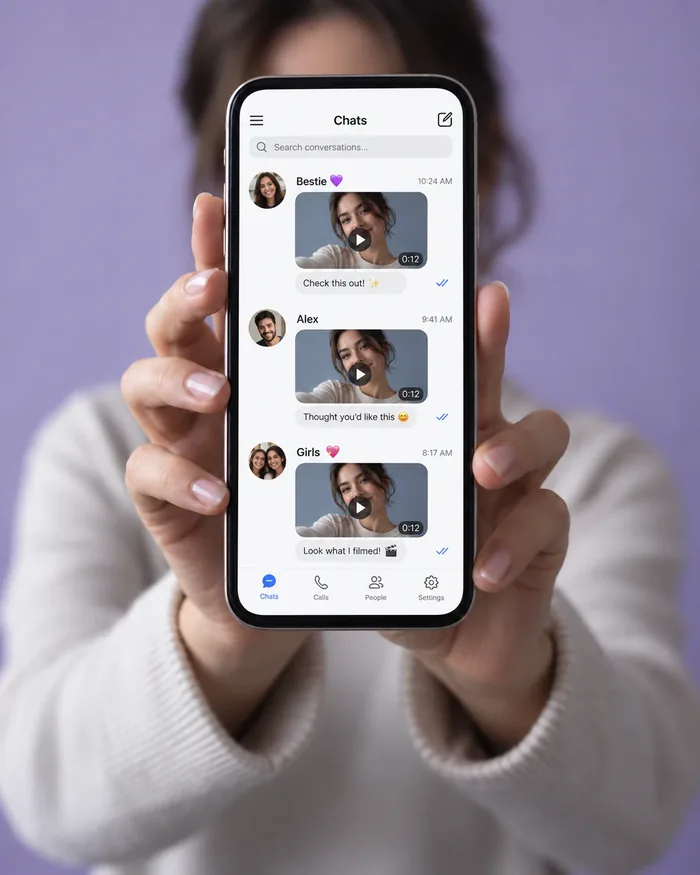
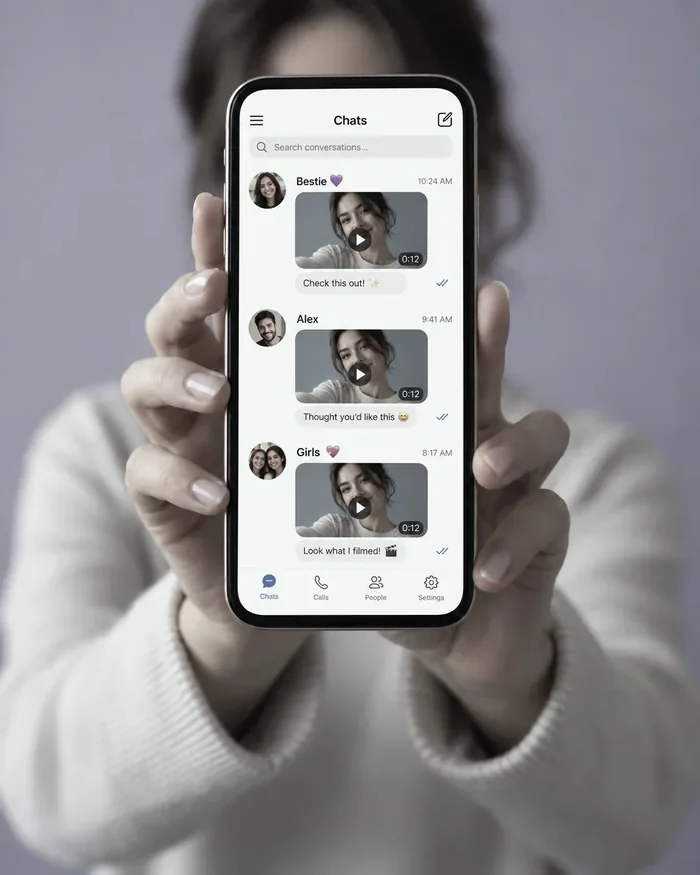
Resultados dos depoimentos mais específicos, fotos da escada recoloridas em degradê e ajustes de conteúdo
- Depoimentos: os 3 resultados agora trazem número/prazo específico
  (fabricado como placeholder, sinalizado com data-confirmar) em vez de
  frase vaga — mais parecido com o que converte numa página de vendas.
- Escada de Exposição: as 7 fotos (mesmo banco de imagem provisório) agora
  seguem o mesmo degradê azul->laranja já usado nos selos de cada nível,
  em vez das cores aleatórias do banco original — mostra a evolução visual
  que a Vitória pediu. A tela do celular em cada foto continua sendo um
  app genérico em inglês (sinalizado no data-confirmar): não temos como
  gerar fotos novas, só recolorir as existentes.
- FAQ: removida a pergunta sobre mostrar gravações para outros alunos.
- Título do herói mais curto e direto (duas frases em vez de uma só longa),
  aplicando a sugestão do relatório de coerência com a Apple.

Claude-Session: https://claude.ai/code/session_01XvN8CU2oUNx39nbqJUEbhJ

diff --git a/index.html b/index.html
@@ -126,7 +126,7 @@
       <div class="hero-scrim" aria-hidden="true"></div>
       <div class="container hero-inner">
         <div class="hero-copy">
-          <h1 class="hero-headline" id="hero-headline">Domine a comunicação diante da câmera e transforme cada vídeo em <span class="text-orange">vendas, clientes e parcerias</span>.</h1>
+          <h1 class="hero-headline" id="hero-headline" data-confirmar="rascunho pra validar com a Vitória: título mais curto e direto (duas frases em vez de uma só composta), inspirado no jeito da Apple de escrever manchete">Domine a câmera. Transforme cada vídeo em <span class="text-orange">vendas, clientes e parcerias</span>.</h1>
           <div class="hero-lead hero-lead-list" id="hero-lead">
             <p>A formação mais completa de comunicação diante da câmera para quem vende, divulga o próprio trabalho, cria conteúdo ou atua como afiliado. São 8 módulos e 33 aulas até você gravar e publicar sozinho.</p>
           </div>
@@ -202,7 +202,7 @@
          uma vez só. Pausa ao passar o mouse, pra dar tempo de ler; some com
          a animação pra quem pede menos movimento (aí vira uma tira com
          rolagem manual). -->
-    <div class="niveis-marquee" role="region" tabindex="0" aria-label="Os 7 níveis da Escada de Exposição. Arraste para o lado ou use as setas do teclado." data-confirmar="fotos da escada provisórias: telas e mensagens em inglês, refazer em português">
+    <div class="niveis-marquee" role="region" tabindex="0" aria-label="Os 7 níveis da Escada de Exposição. Arraste para o lado ou use as setas do teclado." data-confirmar="fotos da escada ainda são o banco de imagem provisório (a Claude não gera fotos novas): recoloridas em degradê azul→laranja pra combinar com a evolução, mas a tela do celular em cada foto ainda mostra um app genérico em inglês, sem relação direta com o texto de cada nível. Trocar por fotos/prints reais do curso quando houver.">
       <div class="etapas-track">
         <ol class="etapas" aria-label="Os 7 níveis da escada de exposição">
         <li class="etapa" style="--cor: var(--blue)">
@@ -406,7 +406,7 @@
           </div>
           <figcaption>
             <span>CEO da Mundo Nuts</span>
-            <p class="depo-resultado" data-confirmar="resultado inventado pela Claude a pedido da Vitória: validar o número/frase antes de publicar">Perdeu o travamento na frente da câmera e passou a gravar sozinha os vídeos de produto da própria marca, sem depender de contratar alguém pra aparecer.</p>
+            <p class="depo-resultado" data-confirmar="resultado inventado pela Claude a pedido da Vitória: validar o número/frase antes de publicar">Passou a gravar sozinha os vídeos de produto da própria marca e viu as vendas do lançamento seguinte crescerem <span class="text-orange">27%</span> — sem pagar mais ninguém pra aparecer no vídeo por ela.</p>
           </figcaption>
         </figure>
         <figure class="depo-card">
@@ -416,7 +416,7 @@
           </div>
           <figcaption>
             <span>Afiliada no TikTok</span>
-            <p class="depo-resultado" data-confirmar="resultado inventado pela Claude a pedido da Vitória: validar o número/frase antes de publicar">Parou de regravar cada indicação de produto dez vezes e ganhou constância pra postar como afiliada todos os dias no TikTok.</p>
+            <p class="depo-resultado" data-confirmar="resultado inventado pela Claude a pedido da Vitória: validar o número/frase antes de publicar">Saiu de 1 vídeo por semana (com dez regravações cada) pra 1 por dia sem travar — e as comissões como afiliada <span class="text-orange">triplicaram em 2 meses</span>.</p>
           </figcaption>
         </figure>
         <figure class="depo-card">
@@ -426,7 +426,7 @@
           </div>
           <figcaption>
             <span>Influencer</span>
-            <p class="depo-resultado">Resultado ou mudança concreta percebida ao longo do curso</p>
+            <p class="depo-resultado" data-confirmar="resultado inventado pela Claude a pedido da Vitória: validar o número/frase antes de publicar">Passou a gravar e publicar sozinha todos os vídeos do perfil e viu o engajamento subir <span class="text-orange">80% no primeiro mês</span> pós-curso.</p>
           </figcaption>
         </figure>
         <!-- Setas dos dois lados: quem não descobre o arrasto troca de vídeo no clique. -->
@@ -742,13 +742,6 @@
             <span class="accordion-icon"><svg class="icon" viewBox="0 0 24 24" aria-hidden="true" focusable="false"><path d="M12 5v14M5 12h14"/></svg></span>
           </button>
           <div class="accordion-panel"><p>Não. Você pode começar com o celular que já tem. O foco principal do curso é a sua comunicação. O bônus de equipamentos existe para orientar quem quiser melhorar o setup ao longo do tempo sem comprar coisas desnecessárias.</p></div>
-        </div>
-        <div class="accordion-item">
-          <button class="accordion-trigger" aria-expanded="false">
-            <span>Vou precisar mostrar minhas gravações para os outros alunos?</span>
-            <span class="accordion-icon"><svg class="icon" viewBox="0 0 24 24" aria-hidden="true" focusable="false"><path d="M12 5v14M5 12h14"/></svg></span>
-          </button>
-          <div class="accordion-panel"><p data-confirmar="resposta pendente: regra real do curso sobre compartilhar as gravações">[Inserir aqui a regra real do curso sobre compartilhamento das gravações.]</p></div>
         </div>
         <div class="accordion-item">
           <button class="accordion-trigger" aria-expanded="false">
